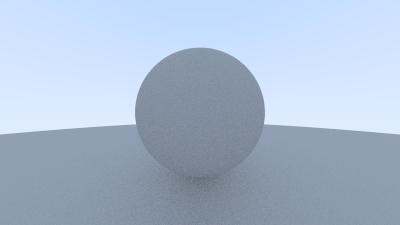
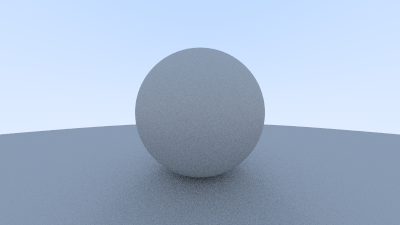
Lambertian

Changed region(s): [[0.36, 0.7156, 0.63, 0.9022], [0.36, 0.8711, 0.39, 0.9022]]

diff --git a/src/camera.rs b/src/camera.rs
@@ -100,7 +100,7 @@ impl Camera {
             }
         });
         if let Some(record) = min_record {
-            let direction = Vector3::random_on_hemisphere(&record.normal);
+            let direction = record.normal + Vector3::random_in_unit_sphere();
             0.5 * Self::ray_color(&Ray::new(record.poz, direction), hittable, depth - 1)
         } else {
             background_color
